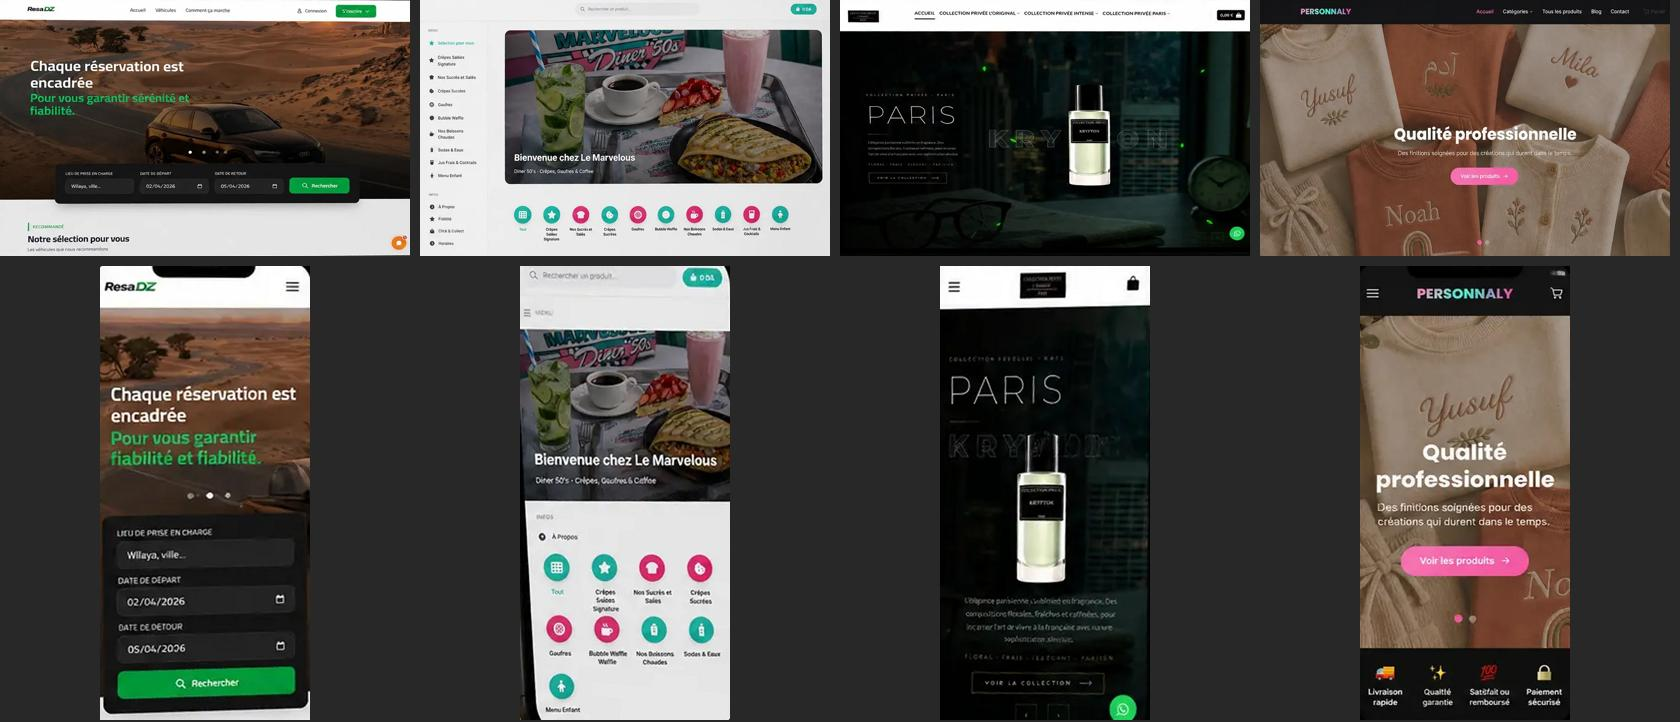
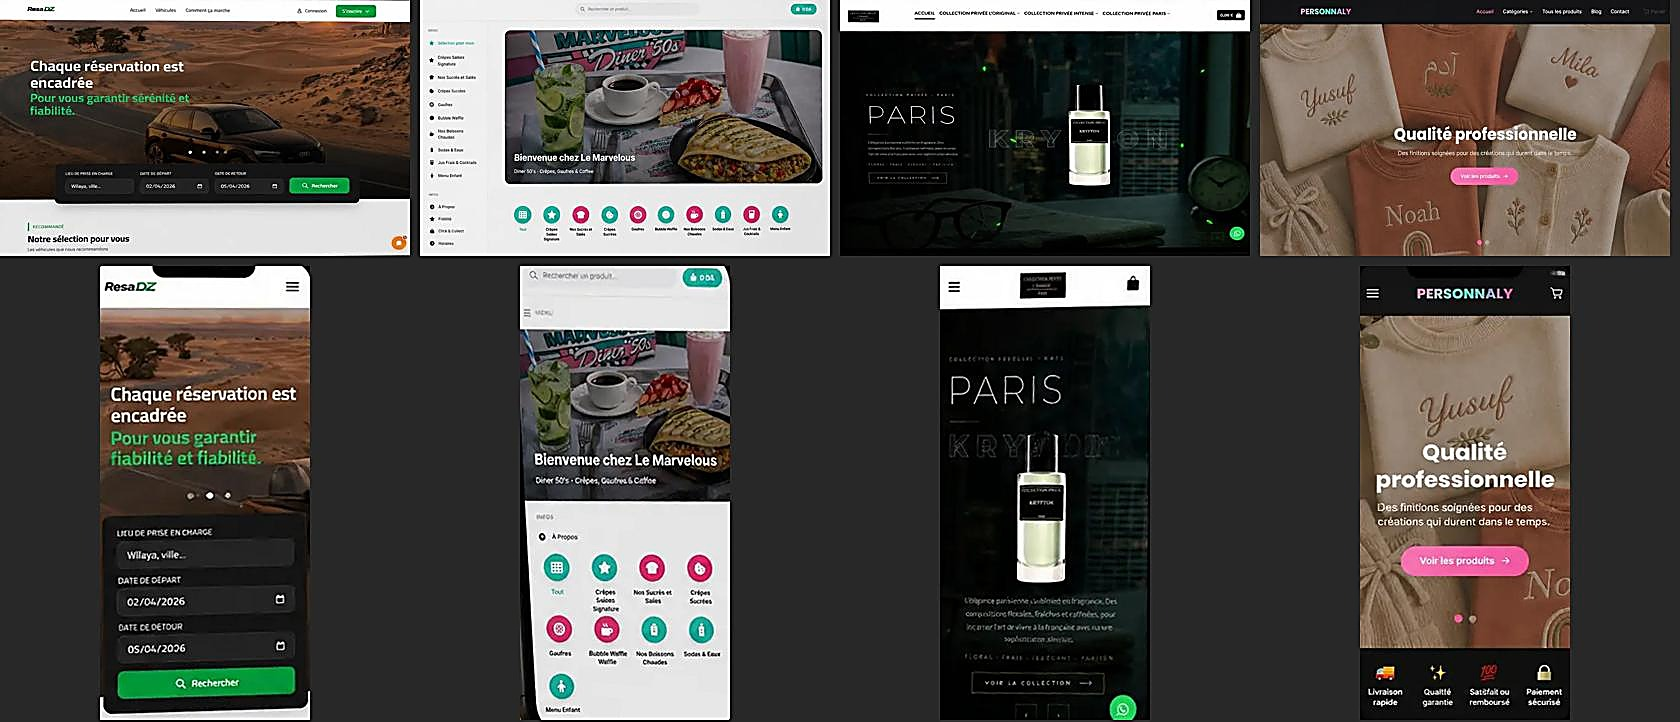
fix: écrans du studio un peu plus nets (renforcement + filtrage anisotrope)
Claude-Session: https://claude.ai/code/session_01LyjUE4Gj36XNteCU7ZbRfs

diff --git a/studio-v3.js b/studio-v3.js
@@ -200,7 +200,7 @@ function build() {
     }));
     function ensure(slot) {
         if (!slot.poster && slot.posterSrc) {
-            slot.poster = loader.load(slot.posterSrc, (t) => { t.colorSpace = THREE.SRGBColorSpace; });
+            slot.poster = loader.load(slot.posterSrc, (t) => { t.colorSpace = THREE.SRGBColorSpace; t.anisotropy = renderer.capabilities.getMaxAnisotropy(); t.minFilter = THREE.LinearMipmapLinearFilter; t.needsUpdate = true; });
         }
         if (!slot.video && slot.src) {
             const v = document.createElement('video');

diff --git a/index-v3.html b/index-v3.html
@@ -633,6 +633,6 @@
     <script src="https://unpkg.com/lenis@1.1.13/dist/lenis.min.js" defer></script>
     <script src="script-v3.js?v=2" defer></script>
     <script src="live-v3.js?v=1" defer></script>
-    <script type="module" src="studio-v3.js?v=2"></script>
+    <script type="module" src="studio-v3.js?v=3"></script>
 </body>
 </html>
